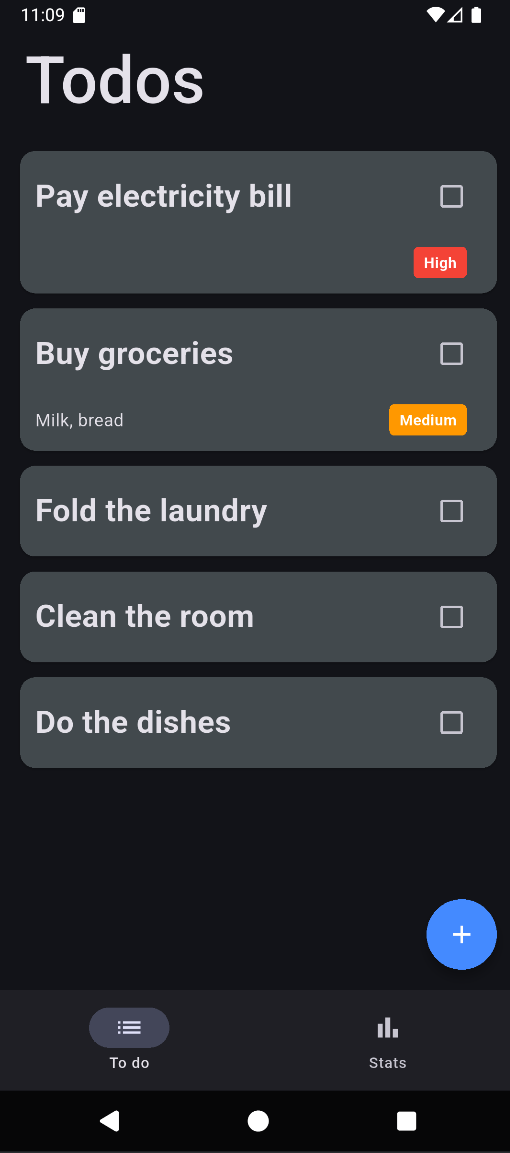
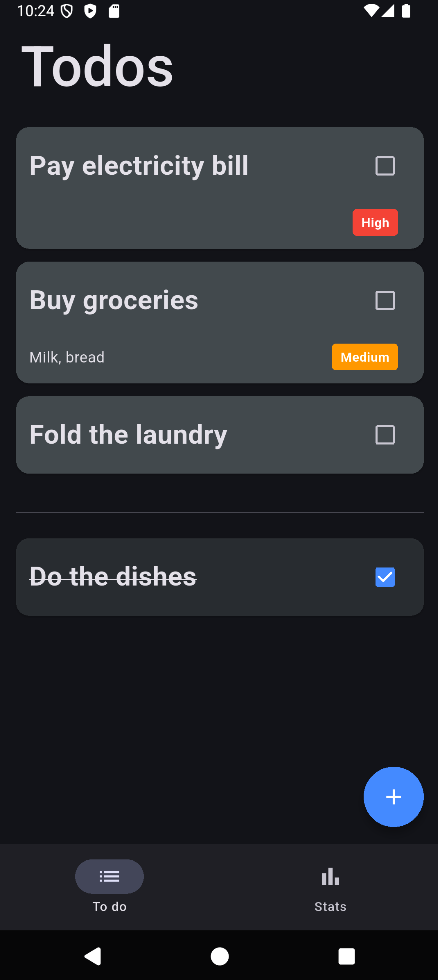
feat: add priority sorting and split todos into active/completed sections

diff --git a/lib/screens/todo_screen.dart b/lib/screens/todo_screen.dart
@@ -30,111 +30,133 @@ class _TodoScreenState extends State<TodoScreen> {
     return Padding(
       padding: const EdgeInsets.all(16.0),
       child: StreamBuilder<List<TodoListItem>>(
-        stream: database.watchAllTodos(),
-        builder: (context, snapshot) {
-          if (!snapshot.hasData) {
-            return const Center(child: CircularProgressIndicator());
-          }
+        stream: database.watchActiveTodos(),
+        builder: (context, activeSnapshot) {
+          return StreamBuilder<List<TodoListItem>>(
+            stream: database.watchCompletedTodos(),
+            builder: (context, completedSnapshot) {
+              if (!activeSnapshot.hasData || !completedSnapshot.hasData) {
+                return const Center(child: CircularProgressIndicator());
+              }
 
-          final todos = snapshot.data!;
+              final activeTodos = activeSnapshot.data!;
+              final completedTodos = completedSnapshot.data!;
 
-          if (todos.isEmpty) {
-            return const Center(
-              child: Text('No todos yet. Add one!'),
-            );
-          }
+              if (activeTodos.isEmpty && completedTodos.isEmpty) {
+                return const Center(
+                  child: Text('No todos yet. Add one!'),
+                );
+              }
 
-          return ListView.builder(
-            itemCount: todos.length,
-            itemBuilder: (context, index) {
-              final todo = todos[index];
+              return ListView(
+                children: [
 
-              return Card(
-                margin: const EdgeInsets.only(bottom: 12.0),
-                color: const Color.fromARGB(255, 66, 73, 77),
-                child: InkWell(
-                  onTap: () async {
-                    final updated = todo.copyWith(isChecked: !todo.isChecked);
-                    await database.updateTodo(updated);
-                  },
-                  child: Padding(
-                    padding: const EdgeInsets.all(12.0),
-                    child: Column(
-                      crossAxisAlignment: CrossAxisAlignment.start,
-                      children: [
-                        Row(
-                          mainAxisAlignment: MainAxisAlignment.spaceBetween,
-                          children: [
-                            Expanded(
-                              child: Text(
-                                todo.title,
-                                style: const TextStyle(
-                                  fontSize: 25,
-                                  fontWeight: FontWeight.bold,
-                                ),
-                              ),
-                            ),
-                            Checkbox(
-                              activeColor: Colors.blueAccent,
-                              checkColor: Colors.white,
-                              value: todo.isChecked,
-                              onChanged: (value) async {
-                                final updated = todo.copyWith(
-                                  isChecked: value ?? false,
-                                );
-                                await database.updateTodo(updated);
-                              },
-                            ),
-                          ],
-                        ),
-                        if (todo.description != null || todo.priorityEnum != null) ...[
-                          const SizedBox(height: 16),
-                          Row(
-                            mainAxisAlignment: MainAxisAlignment.end,
-                            children: [
-                              if (todo.description != null &&
-                                  todo.description!.isNotEmpty)
-                                Expanded(
-                                  child: Text(
-                                    todo.description!,
-                                    style: const TextStyle(fontSize: 14),
-                                  ),
-                                ),
-                              if (todo.priorityEnum != null)
-                                Padding(
-                                  padding: const EdgeInsets.symmetric(
-                                    horizontal: 12,
-                                  ),
-                                  child: Container(
-                                    padding: const EdgeInsets.symmetric(
-                                      horizontal: 8,
-                                      vertical: 4,
-                                    ),
-                                    decoration: BoxDecoration(
-                                      color: todo.priorityEnum!.color,
-                                      borderRadius: BorderRadius.circular(4),
-                                    ),
-                                    child: Text(
-                                      todo.priorityEnum!.label,
-                                      style: const TextStyle(
-                                        color: Colors.white,
-                                        fontSize: 12,
-                                        fontWeight: FontWeight.bold,
-                                      ),
-                                    ),
-                                  ),
-                                ),
-                            ],
-                          ),
-                        ],
-                      ],
+                  ...activeTodos.map((todo) => _buildTodoCard(todo, false)),
+
+                  if (completedTodos.isNotEmpty) ...[
+                    const Padding(
+                      padding: EdgeInsets.symmetric(vertical: 16.0),
+                      child: Divider(),
                     ),
-                  ),
-                ),
+
+                    ...completedTodos.map((todo) => _buildTodoCard(todo, true)),
+                  ],
+                ],
               );
             },
           );
         },
+      ),
+    );
+  }
+
+  Widget _buildTodoCard(TodoListItem todo, bool isCompleted) {
+    return Card(
+      margin: const EdgeInsets.only(bottom: 12.0),
+      color: isCompleted
+          ? const Color.fromARGB(255, 66, 73, 77).withOpacity(0.5)
+          : const Color.fromARGB(255, 66, 73, 77),
+      child: InkWell(
+        onTap: () async {
+          final updated = todo.copyWith(isChecked: !todo.isChecked);
+          await database.updateTodo(updated);
+        },
+        child: Padding(
+          padding: const EdgeInsets.all(12.0),
+          child: Column(
+            crossAxisAlignment: CrossAxisAlignment.start,
+            children: [
+              Row(
+                mainAxisAlignment: MainAxisAlignment.spaceBetween,
+                children: [
+                  Expanded(
+                    child: Text(
+                      todo.title,
+                      style: TextStyle(
+                        fontSize: 25,
+                        fontWeight: FontWeight.bold,
+                        decoration: isCompleted
+                            ? TextDecoration.lineThrough
+                            : null,
+                      ),
+                    ),
+                  ),
+                  Checkbox(
+                    activeColor: Colors.blueAccent,
+                    checkColor: Colors.white,
+                    value: todo.isChecked,
+                    onChanged: (value) async {
+                      final updated = todo.copyWith(
+                        isChecked: value ?? false,
+                      );
+                      await database.updateTodo(updated);
+                    },
+                  ),
+                ],
+              ),
+              if (todo.description != null || todo.priorityEnum != null) ...[
+                const SizedBox(height: 16),
+                Row(
+                  mainAxisAlignment: MainAxisAlignment.end,
+                  children: [
+                    if (todo.description != null &&
+                        todo.description!.isNotEmpty)
+                      Expanded(
+                        child: Text(
+                          todo.description!,
+                          style: const TextStyle(fontSize: 14),
+                        ),
+                      ),
+                    if (todo.priorityEnum != null)
+                      Padding(
+                        padding: const EdgeInsets.symmetric(
+                          horizontal: 12,
+                        ),
+                        child: Container(
+                          padding: const EdgeInsets.symmetric(
+                            horizontal: 8,
+                            vertical: 4,
+                          ),
+                          decoration: BoxDecoration(
+                            color: todo.priorityEnum!.color,
+                            borderRadius: BorderRadius.circular(4),
+                          ),
+                          child: Text(
+                            todo.priorityEnum!.label,
+                            style: const TextStyle(
+                              color: Colors.white,
+                              fontSize: 12,
+                              fontWeight: FontWeight.bold,
+                            ),
+                          ),
+                        ),
+                      ),
+                  ],
+                ),
+              ],
+            ],
+          ),
+        ),
       ),
     );
   }

diff --git a/lib/data/database/database.dart b/lib/data/database/database.dart
@@ -27,7 +27,25 @@ class AppDatabase extends _$AppDatabase {
 
   Future<List<TodoListItem>> getAllTodos() => select(todoItems).get();
 
-  Stream<List<TodoListItem>> watchAllTodos() => select(todoItems).watch();
+  Stream<List<TodoListItem>> watchActiveTodos() {
+    return (select(todoItems)
+      ..where((t) => t.isChecked.equals(false))
+      ..orderBy([
+            (t) => OrderingTerm(expression: t.priority, mode: OrderingMode.desc),
+            (t) => OrderingTerm(expression: t.id, mode: OrderingMode.asc),
+      ]))
+        .watch();
+  }
+
+  Stream<List<TodoListItem>> watchCompletedTodos() {
+    return (select(todoItems)
+      ..where((t) => t.isChecked.equals(true))
+      ..orderBy([
+            (t) => OrderingTerm(expression: t.priority, mode: OrderingMode.desc),
+            (t) => OrderingTerm(expression: t.id, mode: OrderingMode.asc),
+      ]))
+        .watch();
+  }
 
   Future<int> addTodo({
     required String title,

diff --git a/README.md b/README.md
@@ -7,13 +7,18 @@ This is my first Flutter project, created for learning purposes.
 ### Current features
 - Basic UI
 - Local database using **Drift**
+- Sorting todos by priority
+- Adding new todos
 
 ### Planned
 - User statistics
 - Sorting todos by priority
-- Options to add, delete and update todos
+- Options to delete and update todos
 - UI improvements
 
-### Screenshot
-<img src="screenshots/todo_list_screen.png" width="300" />
+### Screenshots
+<p align="center">
+    <img src="screenshots/todo_list_screen.png" width="300" />
+    <img src="screenshots/add_screen.png" width="300" />
+</p>
 
